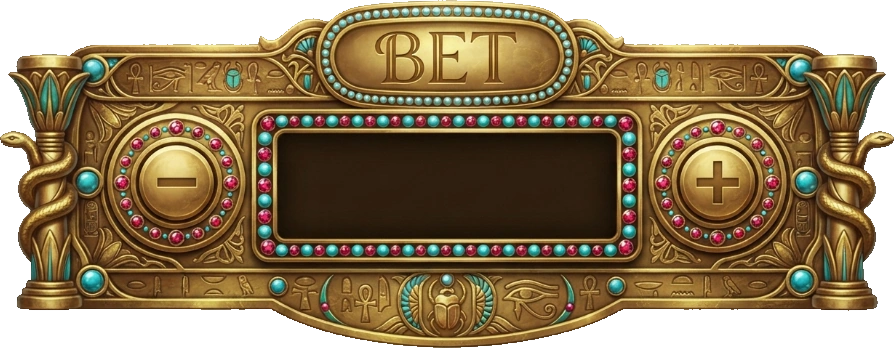
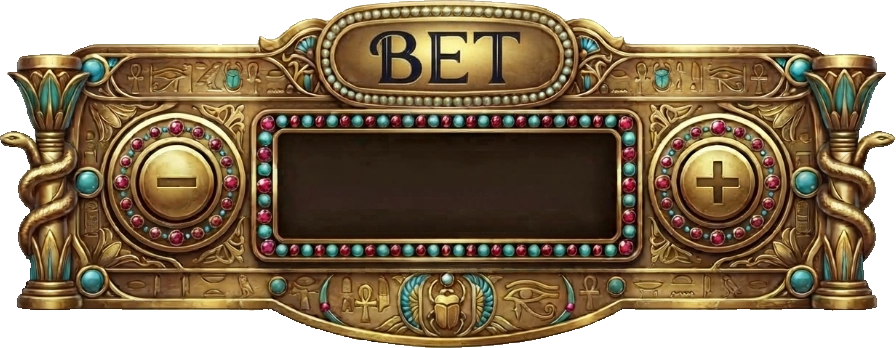
Replace Cleopatra BET art with high-contrast version

diff --git a/themes/cleopatra.js b/themes/cleopatra.js
@@ -15,7 +15,7 @@ window.SLOT_GAME_CONFIG = {
     },
     indicators: {
       balance: 'assets/cleopatra/indicators/balance.webp?v=1',
-      bet: 'assets/cleopatra/indicators/bet.webp?v=1',
+      bet: 'assets/cleopatra/indicators/bet.webp?v=2',
       lines: 'assets/cleopatra/plaque.svg?v=1'
     },
     announcementFrame: 'assets/cleopatra/announcement-frame.svg?v=1',

diff --git a/cleopatra.html b/cleopatra.html
@@ -57,7 +57,7 @@
     </div>
   </div>
   <script src="phaser.min.js?v=4.2.1"></script>
-  <script src="themes/cleopatra.js?v=cleopatra-bet-controls-1"></script>
+  <script src="themes/cleopatra.js?v=cleopatra-bet-highcontrast-1"></script>
   <script src="main.js?v=cleopatra-symbol-fit-1"></script>
 </body>
 </html>
